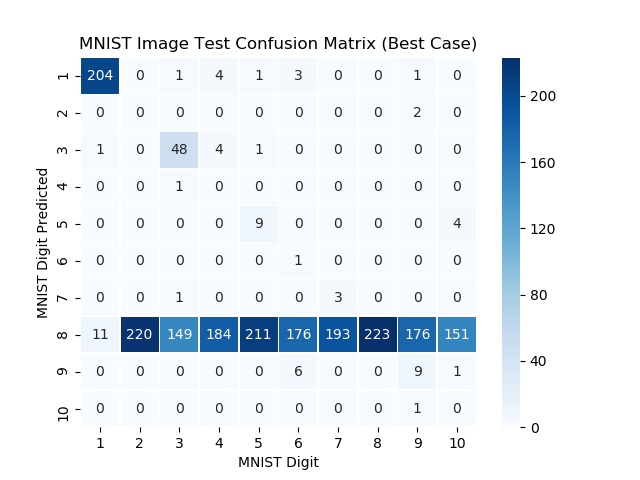
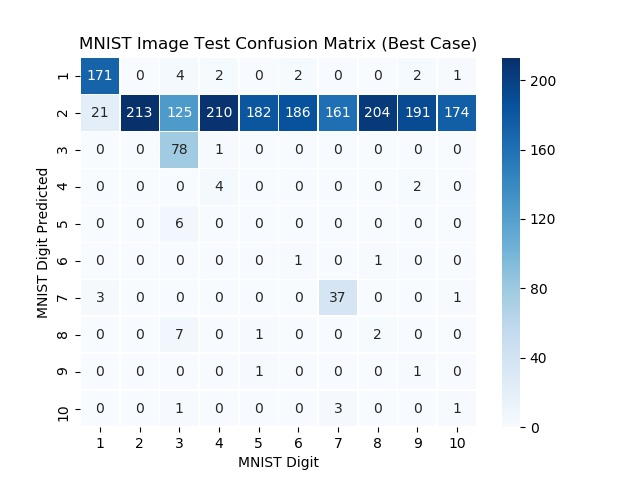
final push with euclidean results

diff --git a/run_experiment.py b/run_experiment.py
@@ -66,9 +66,11 @@ def main():
 
     test = False
     knn_results_img = knn(test_mode=test)
-    knn_results_vec = knn(test_mode=test, custom_data=True)
+    knn_results_vec = knn(test_mode=test, custom_data=True, dist_metric='cosine')
+    knn_results_vec_euc = knn(test_mode=test, custom_data=True)
     hierarchical_results_img = hierarchical(test_mode=test)
-    hierarchical_results_vec = hierarchical(test_mode=test, custom_data=True)
+    hierarchical_results_vec = hierarchical(test_mode=test, custom_data=True, dist_metric='cosine')
+    hierarchical_results_vec_euc = hierarchical(test_mode=test, custom_data=True)
 
     print('***done!***')
 
@@ -88,10 +90,15 @@ def main():
         'MNIST CNN Embeddings Test Confusion Matrix',
         os.path.join(imgdir, 'knn_test_vec_confusion.jpg'))
 
+    make_confusion_mat(knn_results_vec_euc['test']['confusion'],
+        'MNIST CNN Embeddings Test Confusion Matrix (Euclidean)',
+        os.path.join(imgdir, 'knn_test_vec_confusion_euc.jpg'))
+
     with open(os.path.join(filedir, 'knn_stats.csv'), 'w') as f:
-        f.write('img,vec\n{},{}'.format(
+        f.write('img,vec,vec_euc\n{},{},{}'.format(
             knn_results_img['test']['accuracy'],
-            knn_results_vec['test']['accuracy'])
+            knn_results_vec['test']['accuracy'],
+            knn_results_vec_euc['test']['accuracy'])
         )
 
     # hierarchical results
@@ -108,6 +115,11 @@ def main():
     make_confusion_mat(hierarchical_results_vec['test']['confusion'][idx],
         'MNIST CNN Embeddings Test Confusion Matrix (Best Case)',
         os.path.join(imgdir, 'hier_test_vec_confusion.jpg'))
+
+    idx = np.where(hierarchical_results_vec_euc['test']['accuracy'] == np.max(hierarchical_results_vec_euc['test']['accuracy']))[0][0]
+    make_confusion_mat(hierarchical_results_vec_euc['test']['confusion'][idx],
+        'MNIST CNN Embeddings Test Confusion Matrix (Best Case, Euclidean)',
+        os.path.join(imgdir, 'hier_test_vec_confusion_euc.jpg'))
 
     with open(os.path.join(filedir, 'hier_stats.csv'), 'w') as f:
         f.write('lost_subject\n{}'.format(

diff --git a/src/models/hierarchical.py b/src/models/hierarchical.py
@@ -11,7 +11,7 @@ import os
 import torch
 
 
-def hierarchical(test_mode=False, custom_data=False):
+def hierarchical(test_mode=False, custom_data=False, dist_metric='euclidean'):
 
     data_path = os.path.join(
         Path(__file__).resolve().parents[2], 'data', 'processed')
@@ -21,10 +21,17 @@ def hierarchical(test_mode=False, custom_data=False):
         'best_model': None, 'best_acc' : 0, 'lost_subjects' : 0
     }
 
-    settings = {'n_repetitions': 10, 'n_samples': 2000}
+    settings = {'n_repetitions': 10, 'n_samples': 2000, 'linkage': 'average'}
 
     if test_mode:
         settings['n_samples'] = 100
+
+    if dist_metric == 'euclidean':
+        affinity = 'euclidean'
+    elif dist_metric == 'cosine':
+        affinity = 'cosine'
+    else:
+        raise Exception('invalid dist_metric defined')
 
     if custom_data:
         data = np.load(os.path.join(data_path, 'vectors.npy'))
@@ -32,9 +39,6 @@ def hierarchical(test_mode=False, custom_data=False):
         y = data.item()['labels']
 
         del data
-
-        affinity = 'cosine'
-        linkage = 'average'
 
     else:
         train_data = os.path.join(data_path, 'training.pt')
@@ -46,10 +50,7 @@ def hierarchical(test_mode=False, custom_data=False):
         X = np.vstack((X_train, X_test))
         y = np.concatenate((y_train, y_test))
 
-        affinity = 'euclidean'
-        linkage = 'average'
-
-    model = hc(n_clusters=10, affinity=affinity, linkage=linkage)
+    model = hc(n_clusters=10, affinity=affinity, linkage=settings['linkage'])
 
     # remove subject with no activation values
     bad_idx = np.where(np.sum(X, axis=1) == 0)[0]

diff --git a/src/models/knn.py b/src/models/knn.py
@@ -12,7 +12,7 @@ import os
 import torch
 
 
-def knn(test_mode=False, custom_data=False):
+def knn(test_mode=False, custom_data=False, dist_metric='euclidean'):
 
     results = {
         'test':  {'accuracy': None, 'confusion': None},
@@ -34,6 +34,13 @@ def knn(test_mode=False, custom_data=False):
     data_path = os.path.join(
         Path(__file__).resolve().parents[2], 'data', 'processed')
 
+    if dist_metric == 'euclidean':
+        metric = 'euclidean'
+    elif dist_metric == 'cosine':
+        metric = cosine
+    else:
+        raise Exception('invalid dist_metric defined')
+
     if custom_data:
         data = np.load(os.path.join(data_path, 'vectors.npy'))
         X = data.item()['data']
@@ -45,15 +52,11 @@ def knn(test_mode=False, custom_data=False):
         y_test = y[60000:]
         del X, y, data
 
-        metric = cosine
-
     else:
         train_data = os.path.join(data_path, 'training.pt')
         test_data = os.path.join(data_path, 'test.pt')
         X_train, y_train = convert_ds_to_np(train_data)
         X_test, y_test = convert_ds_to_np(train_data)
-
-        metric = 'euclidean'
 
     X_train = X_train[:settings['n_samples'], :]
     y_train = y_train[:settings['n_samples']]
